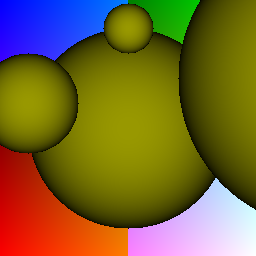
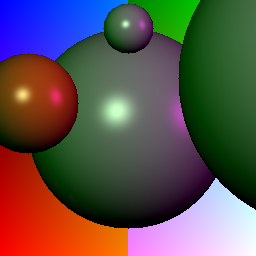
Phong shading works

diff --git a/A4/src/a4.cpp b/A4/src/a4.cpp
@@ -1,7 +1,11 @@
 #include "a4.hpp"
+
+#include <algorithm>
+
 #include "image.hpp"
 #include "debug.hpp"
 #include "primitive.hpp"
+#include "material.hpp"
 
 void a4_render(// What to render
                SceneNode* root,
@@ -49,6 +53,7 @@ void a4_render(// What to render
       double bestIntersection = -1;
       GeometryNode *node = NULL;
       Vector3D bestNormal;
+      Vector3D intersection;
       for (SceneNode::ChildList::const_iterator it = root->children().begin(), end = root->children().end(); it != end; ++it) {
         //DEBUG_MSG((*it)->name());
         GeometryNode *geoNode = dynamic_cast<GeometryNode*>(*it);
@@ -56,13 +61,15 @@ void a4_render(// What to render
         NonhierSphere * sphere = dynamic_cast<NonhierSphere*>(geoNode->get_primitive());
         assert(sphere);
         Vector3D normal;
-        double t = sphere->intersect(rayOrigin, rayDirection, normal);
+        Vector3D t_intersection;
+        double t = sphere->intersect(rayOrigin, rayDirection, t_intersection, normal);
 
         if (t > 0) {
           if (bestIntersection < 0 || t < bestIntersection) {
             bestIntersection = t;
             node = geoNode;
             bestNormal = normal;
+            intersection = t_intersection;
           }
         }
 
@@ -89,15 +96,40 @@ void a4_render(// What to render
 
         Vector3D color;
         //calculate lighting
+        Material *m = node->get_material();
+        PhongMaterial *mat = dynamic_cast<PhongMaterial*>(m);
+        assert(mat);
+
         for (std::list<Light*>::const_iterator it = lights.begin(), end = lights.end(); it != end; ++it) {
           Light * l = *it;
 
           //check if light is blocked by shadow
+
+          // lambert only cares about the incoming direction of light against the normal
+          // once it hits, the lighting is equal eveywehre
           // float lambert = (lightRay.dir * n) * coef;
 
-          float lambert = (bestNormal.dot(rayDirection)) * 0.3f;
-          color[0] += lambert;
-          color[1] += lambert;
+          Vector3D lightDir = l->position; - intersection;
+          lightDir.normalize();
+
+          double lambert = (bestNormal.dot(lightDir)) * 0.5;
+          color[0] += lambert * mat->diffuse().R() * l->colour.R();
+          color[1] += lambert * mat->diffuse().G()* l->colour.G();
+          color[2] += lambert * mat->diffuse().B()* l->colour.B();
+
+
+          // phong
+          double reflect = 2.0 * (lightDir.dot(bestNormal));
+          Vector3D phongDir = lightDir - reflect * bestNormal;
+          double phonCoeff = std::max(phongDir.dot(rayDirection), 0.0);
+
+          DEBUG_MSG("phonCoeff " << phonCoeff << " ks " << mat->shininess());
+          phonCoeff = pow(phonCoeff, mat->shininess()) * 1.0;
+          DEBUG_MSG("final phonCoeff " << phonCoeff );
+
+          color[0] += phonCoeff * mat->specular().R() * l->colour.R();
+          color[1] += phonCoeff * mat->specular().G()* l->colour.G();
+          color[2] += phonCoeff * mat->specular().B()* l->colour.B();
 
 
         }

diff --git a/A4/src/primitive.cpp b/A4/src/primitive.cpp
@@ -10,7 +10,7 @@ Sphere::~Sphere()
 
 
 float NonhierSphere::intersect(Vector3D rayOrigin, Vector3D rayDirection, 
-    Vector3D &out_normal) {
+    Vector3D &out_intersection, Vector3D &out_normal) {
 
 	Vector3D dist = Vector3D(m_pos) - rayOrigin; 
 	double B = rayDirection.dot( dist);
@@ -35,8 +35,8 @@ float NonhierSphere::intersect(Vector3D rayOrigin, Vector3D rayDirection,
 
 
 	if (retValue > 0) {
-		Vector3D intersection = rayOrigin + rayDirection * retValue;
-		out_normal = m_pos - intersection;
+		out_intersection = rayOrigin + rayDirection * retValue;
+		out_normal = out_intersection - m_pos;
 		out_normal.normalize();
 	}
 

diff --git a/A4/src/scene.hpp b/A4/src/scene.hpp
@@ -94,8 +94,8 @@ public:
                Primitive* primitive);
   virtual ~GeometryNode();
 
-  const Material* get_material() const;
-  Material* get_material();
+  const Material* get_material() const { return m_material; }
+  Material* get_material() { return m_material; }
 
   void set_material(Material* material)
   {

diff --git a/A4/src/primitive.hpp b/A4/src/primitive.hpp
@@ -25,7 +25,8 @@ public:
   {
   }
   virtual ~NonhierSphere();
-  float intersect(Vector3D rayOrigin, Vector3D rayDirection, Vector3D &normal);
+  float intersect(Vector3D rayOrigin, Vector3D rayDirection, 
+    Vector3D &out_intersection, Vector3D &out_normal);
 
 private:
   Point3D m_pos;

diff --git a/A4/src/material.hpp b/A4/src/material.hpp
@@ -21,6 +21,9 @@ public:
 
   virtual void apply_gl() const;
 
+  Colour diffuse() { return m_kd; }
+  Colour specular() { return m_ks; }
+  double shininess() { return m_shininess; }
 private:
   Colour m_kd;
   Colour m_ks;
